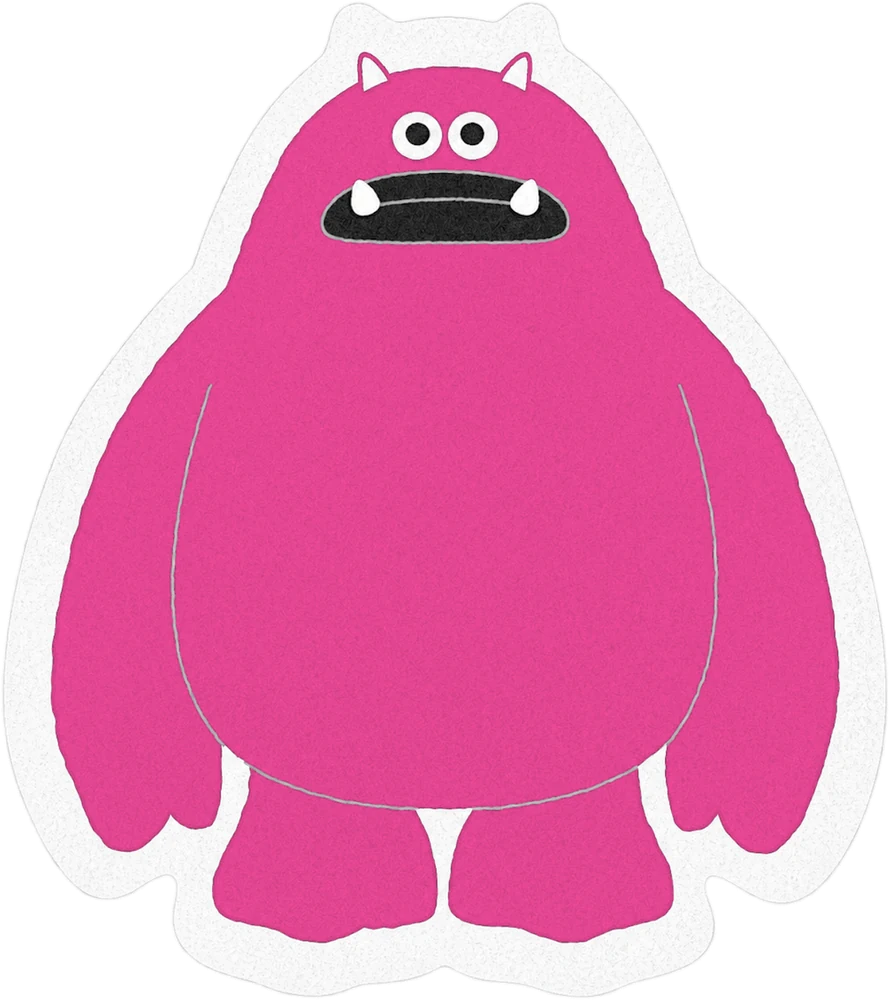
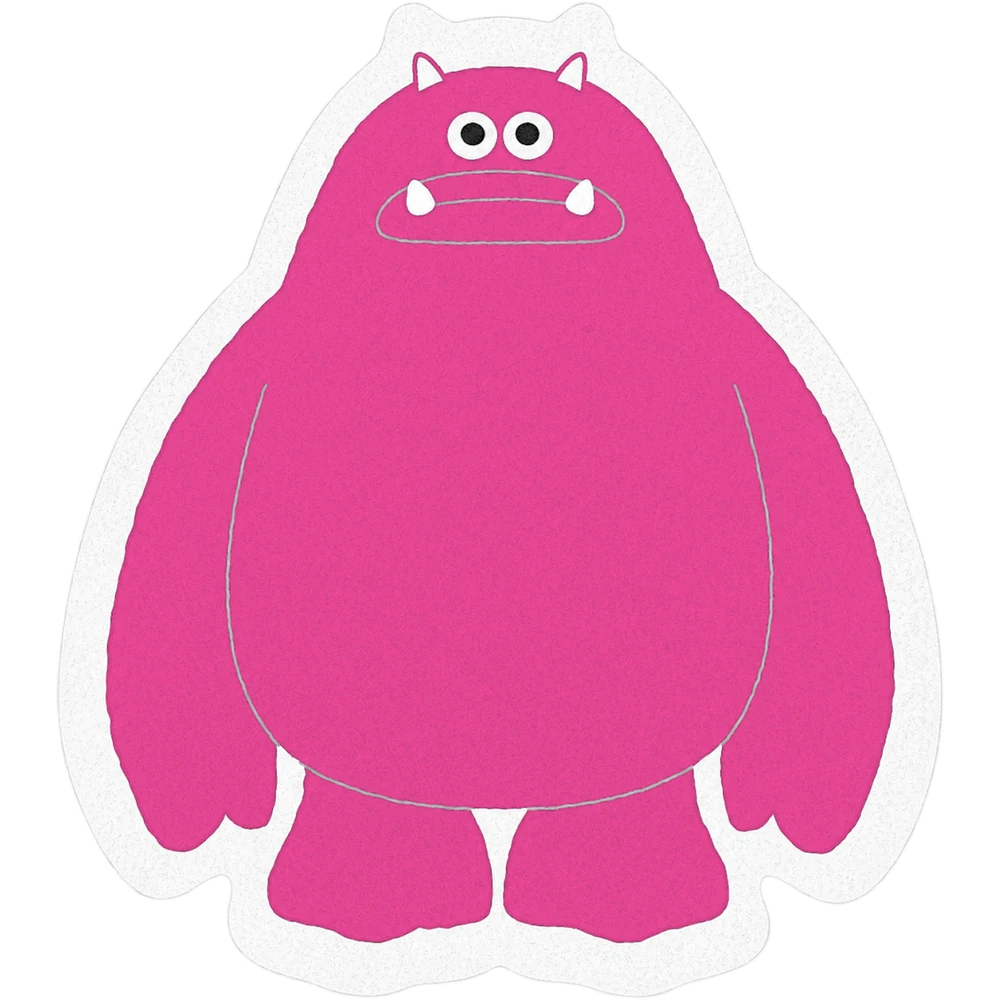
MOJA(PHAGYさん)の COLOR TAP を作る ※未公開
本日のソフコンでご本人に直接お見せするため。
🔴 noindex・どこからもリンクしない。色替えは規約の外なので個別合意が要る。
   OKをもらってから noindex を外す。
   9/13にサンタマを先に公開して止められた件と同じ筋。

■ 絵
PHAGYさんのステッカー用イラスト。背景の透過にツールを使っただけで、絵は本人のもの。
最初は写真(ギャラリーのセール画像)から切り抜こうとしたが、背景の「MOJA」の
黒い文字がフィギュアと1つの塊(843x970px)に繋がっていて分けられなかった。
無地背景の写真版も作ったが、イラストのほうが軽くて色も乗るので差し替えた。

■ 切り抜き
外は純白255、ステッカーの白フチは243〜252、輪郭線は221〜235。
g<253 で抜いて、内側の穴(目・牙)を埋め戻す。

■ 色替え
3000px以上の暗い塊を本体として塗り替える。口も体と同じ色。
🔴 実物のパープル/グリーンを見ると口は体と同色で、黒い穴ではない。
   最初 口を黒のまま残していたのを直した。
残すのは瞳2つ(各約800px)と、白フチ・白目・牙だけ。
生地のザラつきを残すため c*(0.80+0.30*v)。最初 (0.55+0.70*v) にしたら
黄色と黄緑がくすんだので、明るさを保つ側に寄せた。

■ 背景も一緒に変わる（ユーザー指定・アメリカンPOP）
BLACK/クリーム CHERRY/イエロー SUNSHINE/ブルー ELECTRIC/ピンク
BUBBLEGUM/ターコイズ LIME/パープル TANGERINE/スカイ
体と背景を補色でぶつけている。

■ 画角
正方形 1000x1000(ユーザー指定)。余白は透過。
7色で 662KB(WebP q88)。写真版の素材は削除して一本化。

diff --git a/tap/moja.html b/tap/moja.html
@@ -2,7 +2,8 @@
      🔴 まだ本人の同意を取っていない。色替えは規約の外なので個別合意が要る。
         ソフコンで直接お見せして、OKをもらってから noindex を外す。
      絵はPHAGYさんのステッカー用イラスト。背景の透過にツールを使っただけで、絵は本人のもの。
-     いちばん大きい暗い塊だけを本体として塗り替える。瞳・口・牙・白フチはそのまま。 -->
+     3000px以上の暗い塊を本体として塗り替える（口も体と同じ色。実物がそうなっている）。
+     残すのは瞳2つ（各約800px）と、白フチ・白目・牙だけ。画角は正方形。 -->
 <!DOCTYPE html>
 <html lang="ja">
 <head>
